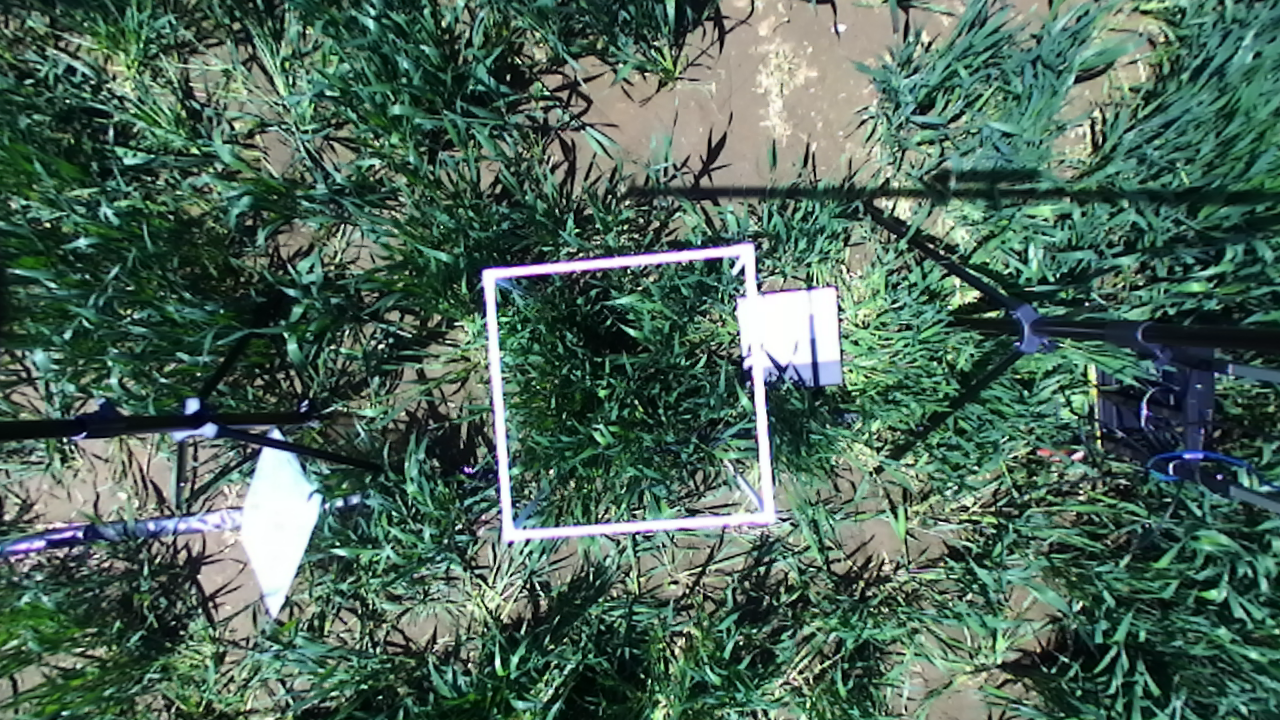
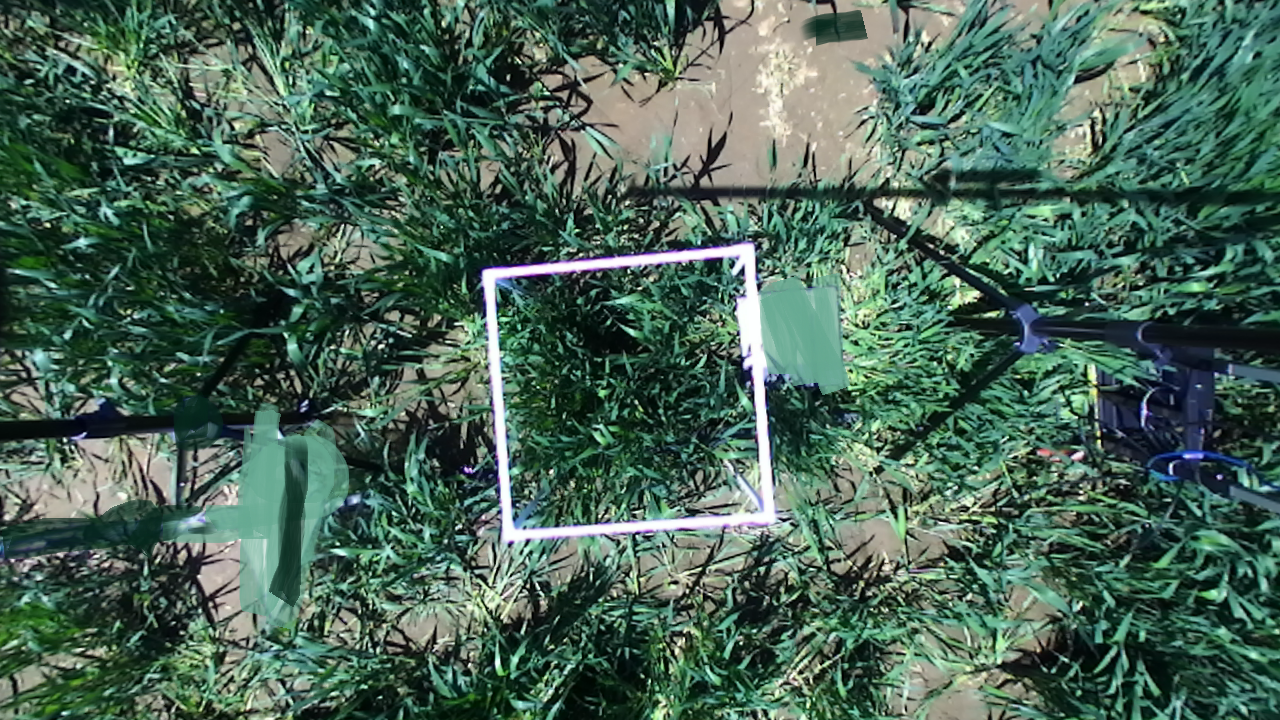
增加彩色图像阈值处理操作

Changed region(s): [[0.0, 0.55, 0.2812, 0.8861], [0.5938, 0.3667, 0.6875, 0.55], [0.625, 0.0, 0.6875, 0.0611]]

diff --git a/src/RGBDImage.cpp b/src/RGBDImage.cpp
@@ -47,22 +47,64 @@ RGBDImage::~RGBDImage()
 
 void RGBDImage::Process()
 {
-    cv::imshow("RGB_result",rgb_Procession(RGBImage));
+    //cv::imshow("RGB_result",rgb_Procession(RGBImage));
+    //cv::waitKey();
+    cv::Mat mask;
+    cv::Mat mask3 = hsv_Procession(RGBImage);
+    cv::cvtColor(mask3, mask, CV_BGR2GRAY);
+    cv::Mat mask2;
+    cv::threshold(mask, mask2, 0.0, 255.0, CV_THRESH_BINARY | CV_THRESH_OTSU);
+    // 查找轮廓，对应连通域
+    vector<vector<cv::Point>> contours;
+    cv::findContours(mask2,contours,CV_RETR_EXTERNAL,CV_CHAIN_APPROX_NONE);
+    // 寻找最大连通域
+    double maxArea = 0;
+    vector<cv::Point> maxContour;
+    for(size_t i = 0; i < contours.size(); i++)
+    {
+        double area = cv::contourArea(contours[i]);
+        if (area > maxArea)
+        {
+            maxArea = area;
+            maxContour = contours[i];
+        }
+    }
+
+    // 将轮廓转为矩形框
+    cv::Rect maxRect = cv::boundingRect(maxContour);
+
+    // 显示连通域
+    cv::Mat result1, result2, result3;
+
+    mask2.copyTo(result1);
+    mask2.copyTo(result2);
+
+    for (size_t i = 0; i < contours.size(); i++) {
+        cv::Rect r = cv::boundingRect(contours[i]);
+        cv::rectangle(result1, r, cv::Scalar(255));
+    }
+    cv::rectangle(result2, maxRect, cv::Scalar(255));
+
+    Mat roi1;
+    calibration_img_877(maxRect).copyTo(roi1); // copy the region rect1 from the image to roi1
+    //cv::rectangle(calibration_img_877, maxRect, cv::Scalar(255));
+
+    cv::imshow("HSV_result",roi1);
     cv::waitKey();
-    cv::imshow("HSV_result",hsv_Procession(RGBImage));
-    cv::waitKey();
+    //cv::imshow("Spectrum_result",spectrum_Process(calibration_img_877));
+    //cv::waitKey();
 }
 
 cv::Mat RGBDImage::hsv_Procession(cv::Mat color_pic)
 {
     //颜色的HSV范围
-    int iLowH = 40;
-    int iHighH = 80;
+    int iLowH = 0;
+    int iHighH = 180;
 
-    int iLowS = 40;
-    int iHighS = 255;
+    int iLowS = 0;
+    int iHighS = 30;
 
-    int iLowV = 40;
+    int iLowV = 223;
     int iHighV = 255;
 
     cv::Mat HSVimg;
@@ -72,7 +114,7 @@ cv::Mat RGBDImage::hsv_Procession(cv::Mat color_pic)
     cv::inRange(HSVimg, Scalar(iLowH, iLowS, iLowV), Scalar(iHighH, iHighS, iHighV), imgThresholded);
 
     //开操作 (去除一些噪点)  如果二值化后图片干扰部分依然很多，增大下面的size
-    cv::Mat element = getStructuringElement(MORPH_RECT, Size(3, 3));
+    cv::Mat element = getStructuringElement(MORPH_RECT, Size(5, 5));
     cv::morphologyEx(imgThresholded, imgThresholded, MORPH_OPEN, element);
     //闭操作 (连接一些连通域)
     cv::morphologyEx(imgThresholded, imgThresholded, MORPH_CLOSE, element);
@@ -91,6 +133,14 @@ cv::Mat RGBDImage::rgb_Procession(cv::Mat color_pic)
     cv::GaussianBlur(gray, gray, Size(3, 3), 0, 0);
     int thresh = otsu(gray);
     color_pic.copyTo(mask, gray);
+    return mask;
+}
+
+cv::Mat RGBDImage::spectrum_Process(cv::Mat color_pic)
+{
+    cv::Mat mask;
+    int thresh = otsu(color_pic);
+    threshold(color_pic, mask, 188, 255, CV_THRESH_BINARY);
     return mask;
 }
 

diff --git a/include/RGBDImage.h b/include/RGBDImage.h
@@ -21,6 +21,7 @@ public:
     int otsu(Mat &img);
     cv::Mat rgb_Procession(cv::Mat color_pic);
     cv::Mat hsv_Procession(cv::Mat color_pic);
+    cv::Mat spectrum_Process(cv::Mat color_pic);
     void Process();
 
 private:
